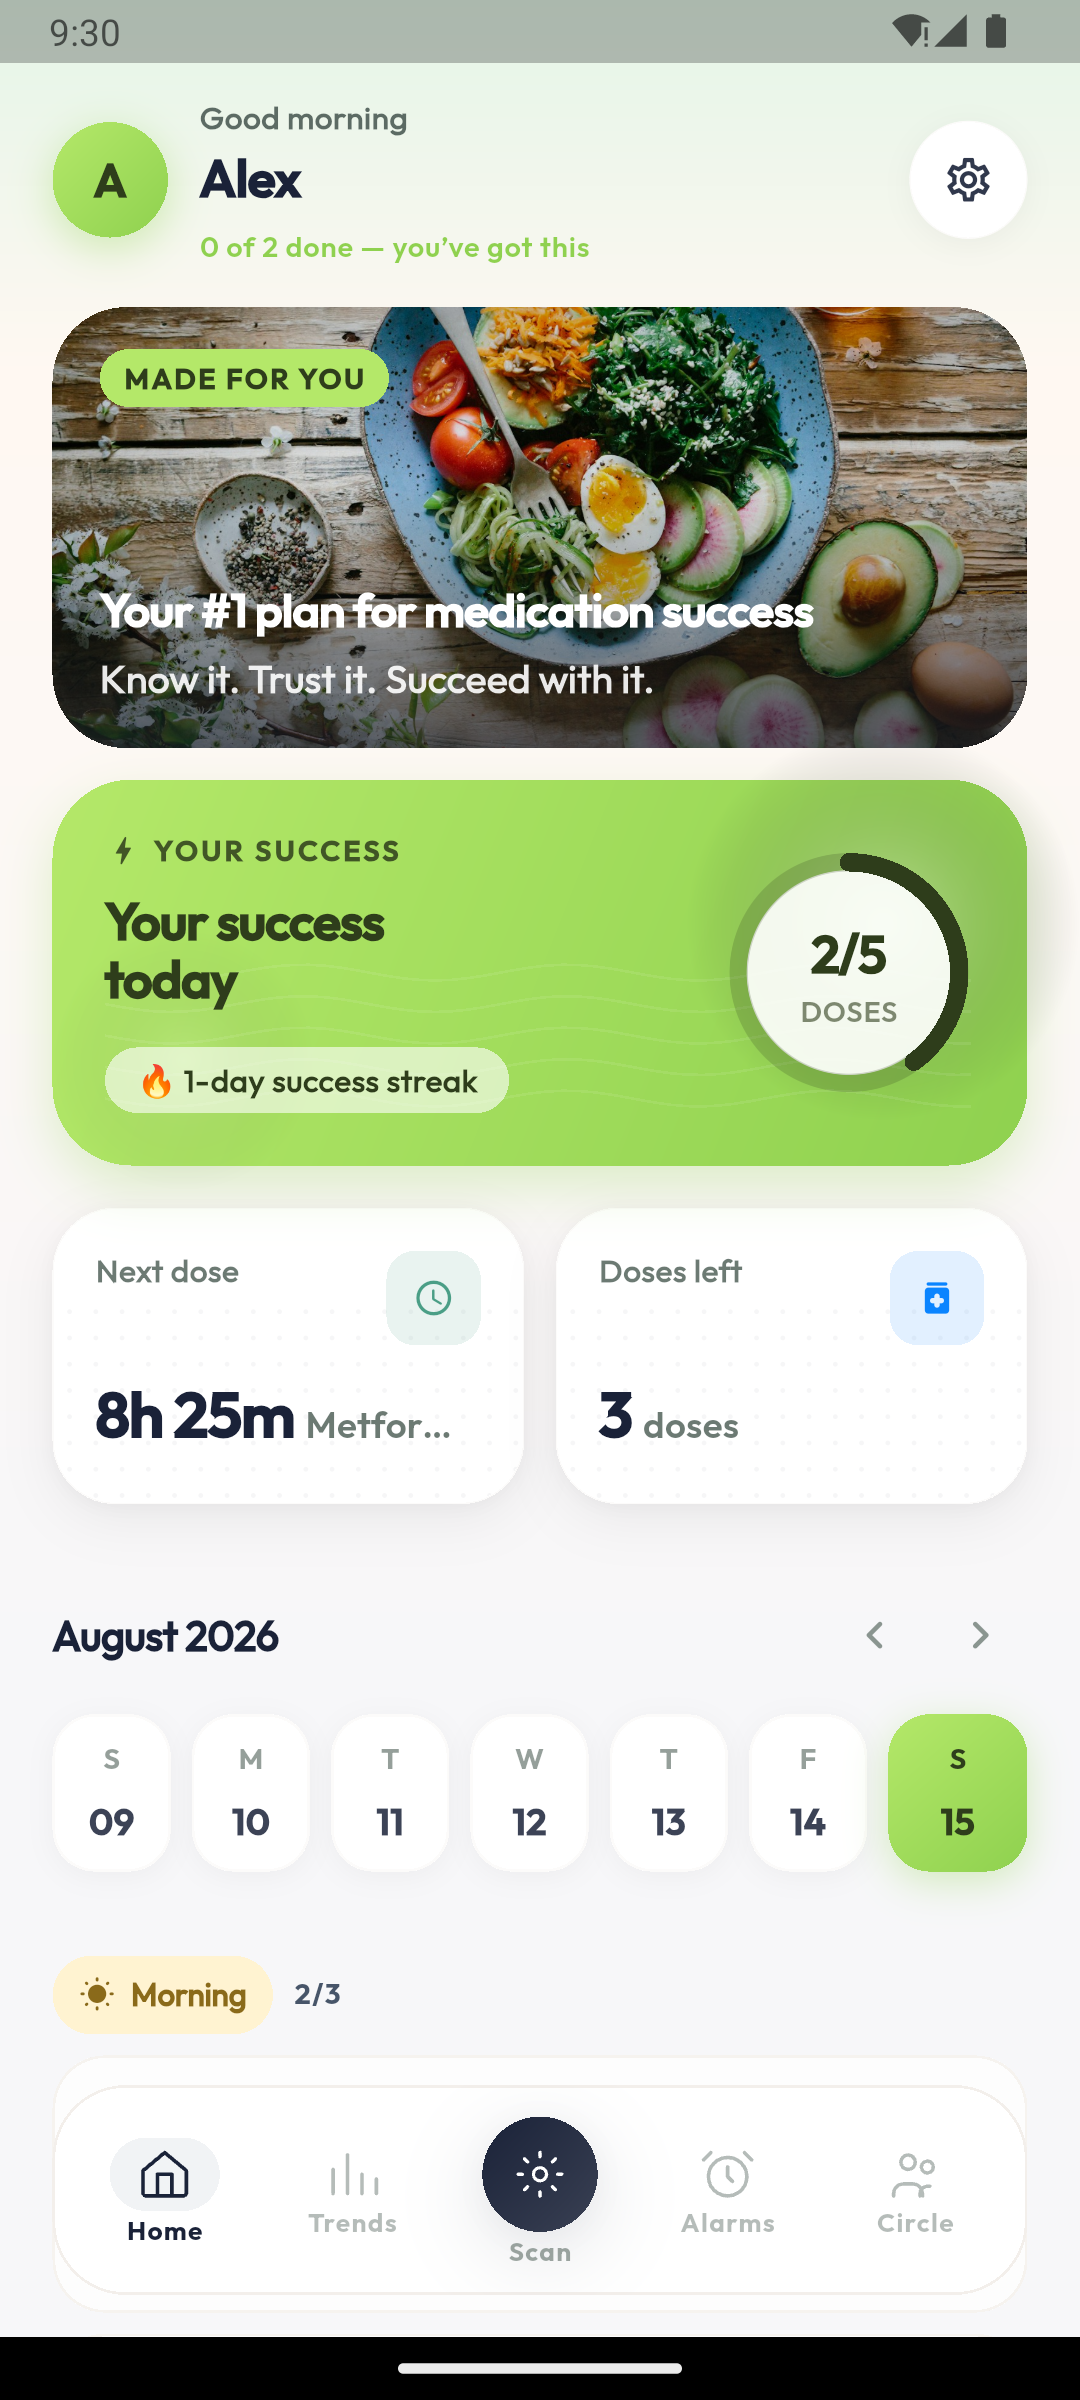
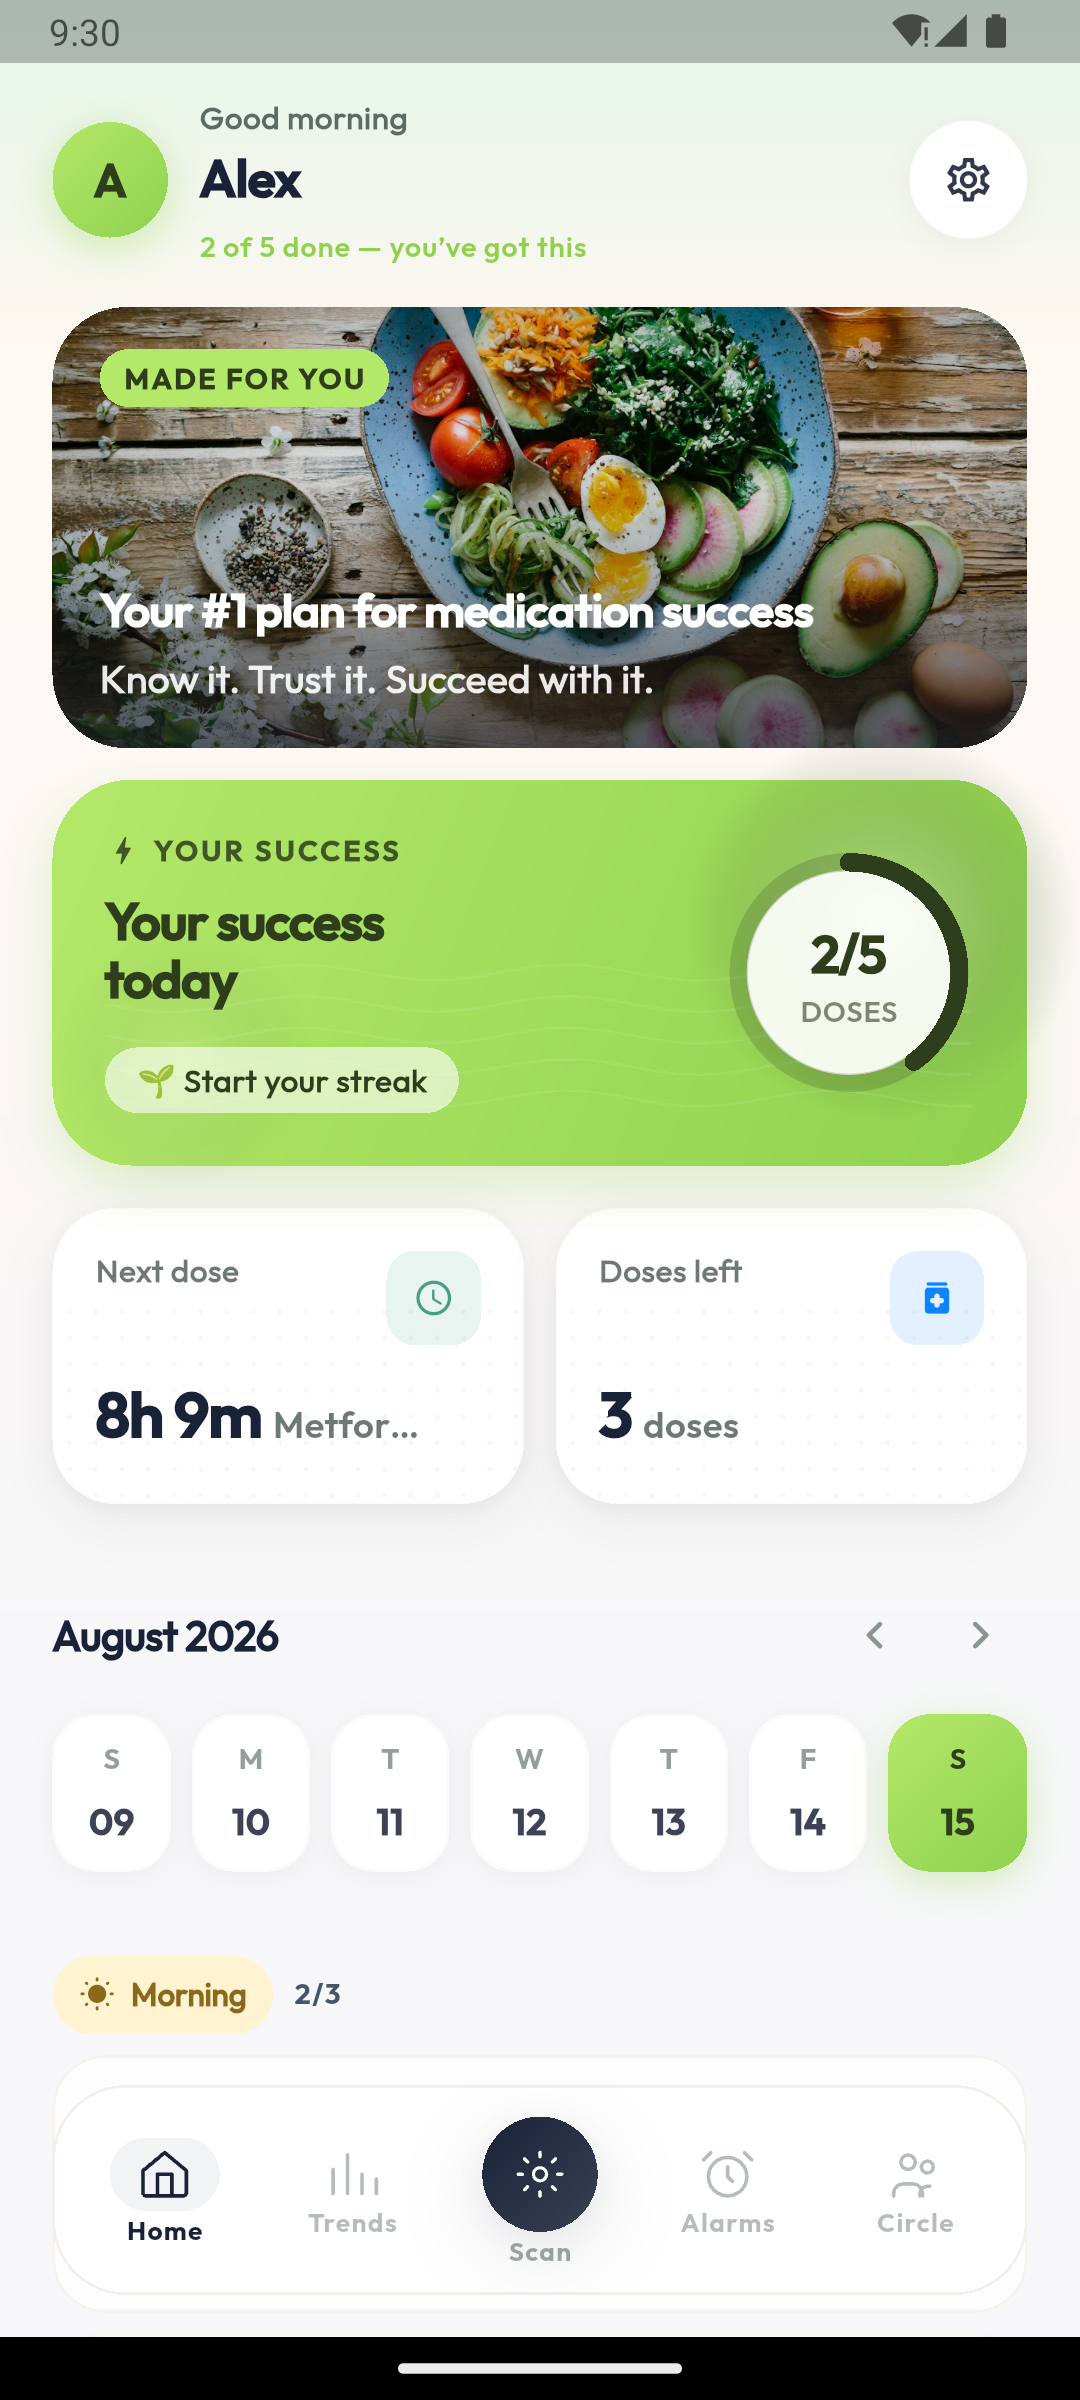
feat: add Play Store screenshots captured from an emulator
Four 1080x2400 screenshots (home, trends, alarms, circle) at Play's recommended
phone size, plus a README covering captions, what is missing, and how to
reproduce.

Captured on an emulator rather than the connected Pixel 7a: on the physical
device a real WhatsApp message from a named contact appeared mid-capture and
every frame carried personal notification icons in the status bar. Those files
were deleted rather than shipped into a public listing.

The scanner shot is deliberately absent — the emulator camera renders a
synthetic colour-block pattern, so that one needs a real device pointed at an
actual medicine box.

diff --git a/medtrackaiflutter/store_screenshots/README.md b/medtrackaiflutter/store_screenshots/README.md
@@ -1,0 +1,44 @@
+# Store screenshots
+
+Captured 2026-08-15 from an Android emulator (Pixel 3a, API 34) at **1080x2400**,
+Play's recommended phone screenshot size — no scaling or cropping applied.
+
+| File | Screen | Suggested caption |
+|---|---|---|
+| `01_home.png` | Today's doses, progress ring, streak | "Never miss a dose" |
+| `02_trends.png` | Adherence trend, streak, weekly stats | "See your streak build" |
+| `03_alarms.png` | Active reminders, upcoming dose | "Reminders that reach you" |
+| `04_circle.png` | Family / caregiver circle | "Care for the people you love" |
+
+## Why an emulator, not the Pixel 7a
+
+Capture was attempted on the physical device first. It works, but the frame
+includes everything on screen: a real WhatsApp message from a named contact
+appeared mid-capture, and every shot carried personal notification icons in the
+status bar. Those files were deleted rather than shipped into a public listing.
+The emulator has no personal accounts, so this cannot happen.
+
+## Not yet captured
+
+- **Scanner viewfinder.** The emulator's camera is a synthetic colour-block test
+  pattern, so the scan screen is unusable as a screenshot. Capture this one on a
+  real device pointed at an actual medicine box — it is the single most
+  compelling shot in the set and worth doing by hand.
+- **Medicine detail, insights, and biometric lock** from the listing plan.
+
+## Notes
+
+- These use seeded demo data (profile "Alex", Metformin / Vitamin D /
+  Lisinopril / Atorvastatin). Built with `--dart-define=DEV_PREVIEW=true`.
+- The status bar renders grey rather than matching the cream background. Cosmetic,
+  but a designer may want to crop the bar or set a matching status-bar colour
+  before upload.
+- Play requires 2-8 phone screenshots; four are here, so the minimum is met.
+
+## Reproducing
+
+```bash
+flutter build apk --release --target-platform android-arm64 --dart-define=DEV_PREVIEW=true
+adb -s emulator-5554 install -r build/app/outputs/flutter-apk/app-release.apk
+adb -s emulator-5554 exec-out screencap -p > store_screenshots/NAME.png
+```
